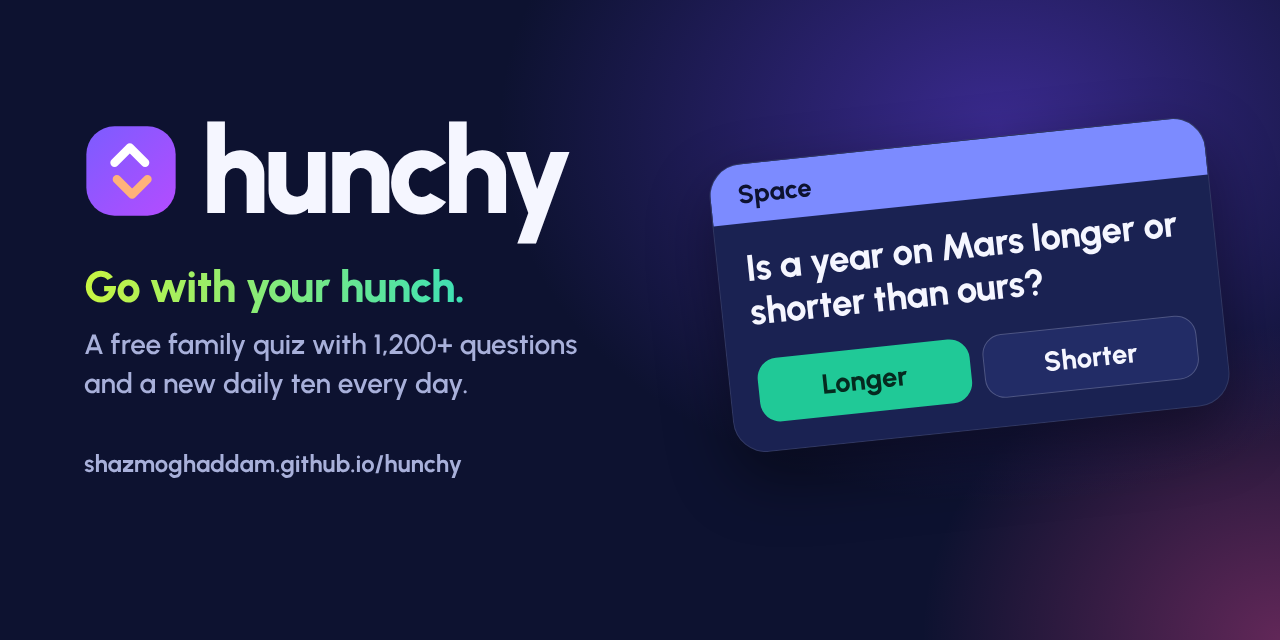
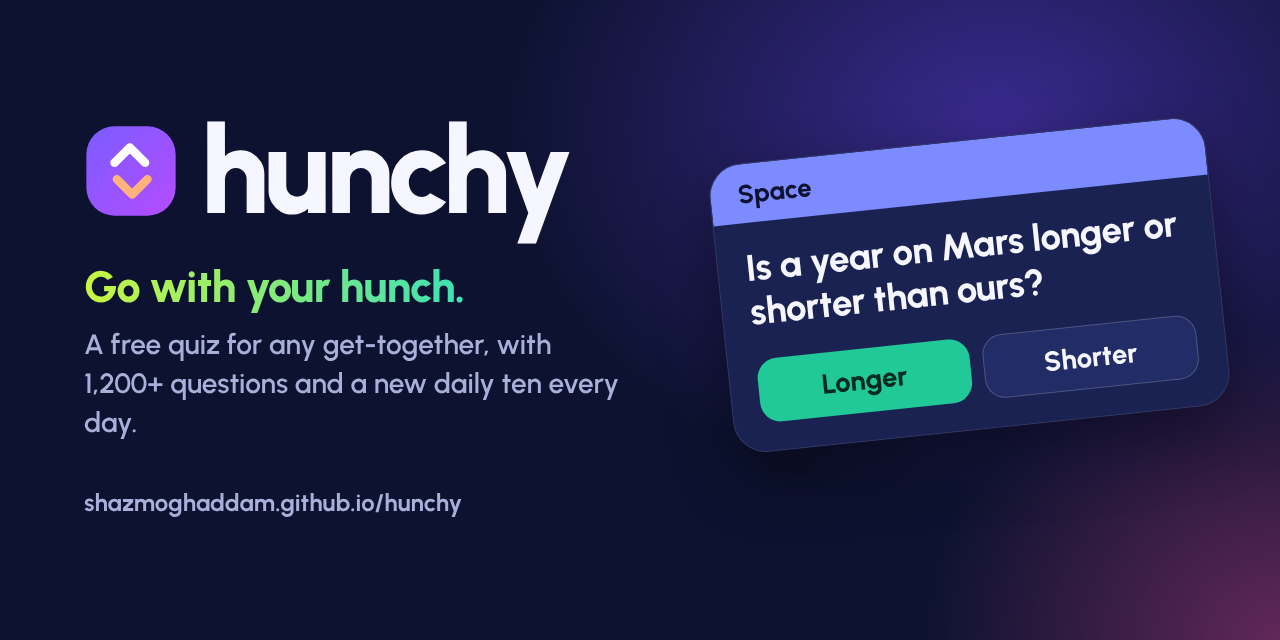
Describe Hunchy as a quiz for any get-together
Removes family wording from the app, share messages, page tags, manifest, docs, code, banner and social preview, rewords two jokes, and adds a test that keeps it out. Bumps the offline version to v1.1.2.

Changed region(s): [[0.0625, 0.5, 0.5, 0.6875], [0.0625, 0.7188, 0.375, 0.8125]]

diff --git a/assets/app.js b/assets/app.js
@@ -37,7 +37,7 @@
   const icon = (name, cls = "") => `<svg class="icon ${cls}" aria-hidden="true"><use href="#i-${name}"/></svg>`;
   const say = (text) => { announce.textContent = ""; setTimeout(() => { announce.textContent = text; }, 30); };
 
-  // Dates use the player's own calendar, so a whole family on one sofa shares the same daily ten.
+  // Dates use the player's own calendar, so everyone in the same room shares the same daily ten.
   const todayKey = () => { const d = new Date(); return `${d.getFullYear()}-${String(d.getMonth() + 1).padStart(2, "0")}-${String(d.getDate()).padStart(2, "0")}`; };
   const dayBefore = (key) => { const d = new Date(key + "T12:00:00"); d.setDate(d.getDate() - 1); return d.toISOString().slice(0, 10); };
   const niceDate = (key) => new Date(key + "T12:00:00").toLocaleDateString("en-GB", { weekday: "long", day: "numeric", month: "long" });
@@ -236,7 +236,7 @@
         <div class="modes">
           <button class="piece mode quick" data-go="quick-setup"><span class="badge">${icon("bolt")}</span><span class="text">Quick round<small>Ten questions from the subjects you choose</small></span></button>
           <button class="piece mode lives" data-go="lives"><span class="badge">${icon("heart")}</span><span class="text">Three lives<small>Keep going until you've got three wrong. Best: ${store.get("best-lives", 0)}</small></span></button>
-          <button class="piece mode hunchoff" data-go="hunchoff-setup"><span class="badge">${icon("family")}</span><span class="text">Hunch-off<small>Take turns on one phone</small></span></button>
+          <button class="piece mode hunchoff" data-go="hunchoff-setup"><span class="badge">${icon("players")}</span><span class="text">Hunch-off<small>Take turns on one phone</small></span></button>
           <button class="piece mode stats" data-go="stats"><span class="badge">${icon("chart")}</span><span class="text">Your stats<small>Best subjects, streaks and scores</small></span></button>
         </div>
 
@@ -253,7 +253,7 @@
             </div>
           </div>
           <div class="setting">
-            <span class="what" id="gu-label"><strong>Grown-up jokes</strong><small>${grownUps ? "On. Cheekier jokes are in the mix." : "Off. Every joke is fine for the whole family."}</small></span>
+            <span class="what" id="gu-label"><strong>Grown-up jokes</strong><small>${grownUps ? "On. Cheekier jokes are in the mix." : "Off. Every joke is fine for everyone."}</small></span>
             <button class="switch" role="switch" aria-checked="${grownUps}" aria-labelledby="gu-label" data-grownups><span class="switch-track" aria-hidden="true"><span class="switch-thumb"></span></span></button>
           </div>
           <div class="setting">
@@ -668,7 +668,7 @@
   // Share text only ever says how someone did, never which answers were right, so it can't spoil today's ten.
   let shareResult = null;
 
-  async function share(text, copied = "Copied. Paste it into your family chat.") {
+  async function share(text, copied = "Copied. Paste it into your group chat.") {
     try {
       if (navigator.share) { await navigator.share({ text }); return; }
       await navigator.clipboard.writeText(text);
@@ -686,7 +686,7 @@
     const row = done.results.map((r) => (r ? "+" : "-")).join("");
     const s = currentStreak();
     share(`Hunchy, ${niceDate(key)}: ${done.score}/${ROUND} [${row}]${s > 1 ? `, ${s} day streak` : ""}. Play today's ten: ${SITE}`,
-      "Score copied. Paste it into your family chat.");
+      "Score copied. Paste it into your group chat.");
   }
 
   // Jokes ------------------------------------------------------------------------------------
@@ -767,7 +767,7 @@
     const punch = e.target.closest("[data-punch]");
     if (punch) return revealPunchline(punch);
     if (e.target.closest("[data-joke-share]") && shownJoke) {
-      return share(`${shownJoke.setup}\n${shownJoke.punchline}\n\nFrom Hunchy, a free family quiz: ${SITE}`, "Joke copied. Go and make someone groan.");
+      return share(`${shownJoke.setup}\n${shownJoke.punchline}\n\nFrom Hunchy, a free quiz for any get-together: ${SITE}`, "Joke copied. Go and make someone groan.");
     }
     if (e.target.closest("[data-joke-next]")) return nextJoke();
     if (e.target.closest("[data-sound]")) {

diff --git a/index.html b/index.html
@@ -4,11 +4,11 @@
   <meta charset="utf-8">
   <meta name="viewport" content="width=device-width, initial-scale=1, viewport-fit=cover">
   <title>Hunchy: go with your hunch</title>
-  <meta name="description" content="A free family quiz. Higher or lower, yes or no, or pick the answer, across 18 subjects. Every answer checked and sourced.">
+  <meta name="description" content="A free quiz for any get-together. Higher or lower, yes or no, or pick the answer, across 18 subjects. Every answer checked and sourced.">
   <meta name="theme-color" content="#0D1230">
   <script>/* Set the saved look before the page paints, so it never flashes the wrong theme. */ try { document.documentElement.dataset.theme = JSON.parse(localStorage.getItem("hunchy:theme")) === "light" ? "light" : "dark"; } catch (e) { document.documentElement.dataset.theme = "dark"; }</script>
   <meta property="og:title" content="Hunchy: go with your hunch">
-  <meta property="og:description" content="A free family quiz with 1,200+ questions and a new daily ten every day. Go with your hunch.">
+  <meta property="og:description" content="A free quiz for any get-together, with 1,200+ questions and a new daily ten every day. Go with your hunch.">
   <meta property="og:image" content="https://shazmoghaddam.github.io/hunchy/assets/social-preview.png">
   <meta property="og:url" content="https://shazmoghaddam.github.io/hunchy/">
   <meta name="twitter:card" content="summary_large_image">
@@ -52,7 +52,7 @@
       <symbol id="i-heart" viewBox="0 0 24 24"><path d="M12 20s-7.5-4.6-7.5-10.2A4.3 4.3 0 0 1 12 7.2a4.3 4.3 0 0 1 7.5 2.6C19.5 15.4 12 20 12 20z"/></symbol>
       <symbol id="i-calendar" viewBox="0 0 24 24"><rect x="3.5" y="5" width="17" height="15.5" rx="2.5"/><path d="M3.5 10h17M8 3v4M16 3v4"/></symbol>
       <symbol id="i-bolt" viewBox="0 0 24 24"><path d="M13 2.5 4.5 13.5H11l-1 8 8.5-11H12z"/></symbol>
-      <symbol id="i-family" viewBox="0 0 24 24"><circle cx="8" cy="7.5" r="3"/><circle cx="16.5" cy="9.5" r="2.3"/><path d="M2.5 20c.5-3.6 2.8-5.8 5.5-5.8s5 2.2 5.5 5.8M13.8 15.3c.8-.7 1.7-1 2.7-1 2.4 0 4.2 2 4.6 5"/></symbol>
+      <symbol id="i-players" viewBox="0 0 24 24"><circle cx="8" cy="7.5" r="3"/><circle cx="16.5" cy="9.5" r="2.3"/><path d="M2.5 20c.5-3.6 2.8-5.8 5.5-5.8s5 2.2 5.5 5.8M13.8 15.3c.8-.7 1.7-1 2.7-1 2.4 0 4.2 2 4.6 5"/></symbol>
       <symbol id="i-close" viewBox="0 0 24 24"><path d="M6 6l12 12M18 6 6 18"/></symbol>
       <symbol id="i-share" viewBox="0 0 24 24"><path d="M12 15V3.5M7.5 8 12 3.5 16.5 8M5 12v7a2 2 0 0 0 2 2h10a2 2 0 0 0 2-2v-7"/></symbol>
       <symbol id="i-flag" viewBox="0 0 24 24"><path d="M5 21V4M5 4h11l-2 4 2 4H5"/></symbol>

diff --git a/sw.js b/sw.js
@@ -3,7 +3,7 @@
    Everything else (styles, script, fonts, icons): use the copy at once and refresh it in the background.
    VERSION must match the latest version in CHANGELOG.md (a test checks). Changing it is what tells phones a new
    version exists: the new worker installs, clears the old copy, and the page reloads itself onto it. */
-const VERSION = "hunchy-v1.1.1";
+const VERSION = "hunchy-v1.1.2";
 const SHELL = [
   "./",
   "index.html",

diff --git a/jokes/build_jokes.py b/jokes/build_jokes.py
@@ -1,13 +1,13 @@
 """Writes data/jokes.json. Every joke is original to Hunchy.
 
-FAMILY jokes are for everyone. GROWN_UPS jokes are a bit cheekier, flirtier or darker, and only appear when the
+EVERYONE jokes are for everyone. GROWN_UPS jokes are a bit cheekier, flirtier or darker, and only appear when the
 Grown-up jokes switch is on. Run: python3 jokes/build_jokes.py
 """
 
 import json
 from pathlib import Path
 
-FAMILY = [
+EVERYONE = [
     ("Why did the higher-or-lower player bring a ladder?", "They had a feeling the answer was higher."),
     ("Why does the Eiffel Tower grow in summer?", "Too many croissants on holiday."),
     ("Why did the polar bear fail the penguin-spotting test?", "Wrong pole."),
@@ -38,7 +38,7 @@ FAMILY = [
     ("Why did the footballer bring string to the match?", "To tie the game."),
     ("Why did the sprinter get disqualified from quiz night?", "She kept answering before the gun."),
     ("Why are Le Mans drivers so tired?", "Twenty-four hours is a long time to go round in circles."),
-    ("Why did the Lamborghini stop at the farm?", "It wanted to visit the tractors and the bulls. Family is family."),
+    ("Why did the Lamborghini stop at the farm?", "It wanted to visit the tractors and the bulls. Old friends."),
     ("What do Mary Quant's miniskirt and the Mini car have in common?", "Not much leg room."),
     ("Why did the jeans go on holiday to Nîmes?", "To get back to their roots."),
     ("What did the wellington boot say to the puddle?", "You're no Waterloo."),
@@ -95,7 +95,7 @@ GROWN_UPS = [
     ("Why did the snowman's wife leave him?", "He was a total flake."),
     ("Why does Dracula always win the pub quiz?", "He was there for most of the answers."),
     ("I'd tell you a joke about the Mariana Trench.", "But it's far too deep for this time of night."),
-    ("Why is a Hunch-off like a family Christmas?", "Somebody always storms off before the scores are in."),
+    ("Why is a Hunch-off like Christmas dinner?", "Somebody always storms off before the scores are in."),
     ("I tried speed dating at the Tour de France.", "Everyone just rode straight past."),
     ("Are you The Kiss by Klimt?", "Because I could stare at you for hours and still not understand what's going on."),
     ("Are you Mount Damavand?", "Because you're hot, and I'm not convinced you're as dormant as you look."),
@@ -115,11 +115,11 @@ GROWN_UPS = [
 
 
 def main() -> None:
-    jokes = [{"id": f"joke-{i:03d}", "setup": s, "punchline": p, "grownUp": False} for i, (s, p) in enumerate(FAMILY, 1)]
-    jokes += [{"id": f"joke-{i:03d}", "setup": s, "punchline": p, "grownUp": True} for i, (s, p) in enumerate(GROWN_UPS, len(FAMILY) + 1)]
+    jokes = [{"id": f"joke-{i:03d}", "setup": s, "punchline": p, "grownUp": False} for i, (s, p) in enumerate(EVERYONE, 1)]
+    jokes += [{"id": f"joke-{i:03d}", "setup": s, "punchline": p, "grownUp": True} for i, (s, p) in enumerate(GROWN_UPS, len(EVERYONE) + 1)]
     out = Path(__file__).resolve().parent.parent / "data" / "jokes.json"
     out.write_text(json.dumps({"jokes": jokes}, ensure_ascii=False, indent=1) + "\n", encoding="utf-8")
-    print(f"Saved {len(jokes)} jokes ({len(FAMILY)} for everyone, {len(GROWN_UPS)} grown-up) to {out.name}")
+    print(f"Saved {len(jokes)} jokes ({len(EVERYONE)} for everyone, {len(GROWN_UPS)} grown-up) to {out.name}")
 
 
 if __name__ == "__main__":

diff --git a/tests/test_questions.py b/tests/test_questions.py
@@ -152,7 +152,7 @@ JOKES = json.loads((ROOT / "data" / "jokes.json").read_text(encoding="utf-8"))["
 
 
 def test_the_jokes_file_matches_the_source():
-    expected = [*build_jokes.FAMILY, *build_jokes.GROWN_UPS]
+    expected = [*build_jokes.EVERYONE, *build_jokes.GROWN_UPS]
     assert [(j["setup"], j["punchline"]) for j in JOKES] == expected
 
 
@@ -169,13 +169,22 @@ def test_jokes_are_clean_text():
             assert text.strip() and "—" not in text and not emoji.search(text), j["id"]
 
 
-# No ages anywhere: Hunchy is a family quiz, full stop ------------------------------------------------------
+# No ages and no 'family' wording anywhere: Hunchy is a quiz for any get-together ------------------------------------------------------
 
 @pytest.mark.parametrize("path", ["README.md", "CHANGELOG.md", "CONTRIBUTING.md", "index.html", "manifest.webmanifest",
                                   "assets/app.js", "questions/curated/__init__.py"])
 def test_no_age_ranges(path):
     text = (ROOT / path).read_text(encoding="utf-8")
     assert not re.search(r"\bages? \d|\d+ to 80|year-old|younger players", text, re.I), path
+
+
+@pytest.mark.parametrize("path", ["README.md", "CHANGELOG.md", "CONTRIBUTING.md", "SECURITY.md", "questions/CHECKS.md",
+                                  "index.html", "manifest.webmanifest", "assets/app.js", "assets/styles.css", "sw.js",
+                                  "data/jokes.json", "jokes/build_jokes.py", "questions/curated/__init__.py"])
+def test_hunchy_is_for_any_get_together(path):
+    """Hunchy is described as a quiz for any get-together, never as a family game. (CSS's font-family is fine.)"""
+    text = (ROOT / path).read_text(encoding="utf-8")
+    assert not re.search(r"(?<![-\w])famil", text, re.I), path
 
 
 # The page itself -------------------------------------------------------------------------------------

diff --git a/questions/generated.py b/questions/generated.py
@@ -46,7 +46,7 @@ SAME_NAME = {"Luxembourg", "Monaco", "San Marino", "Kuwait", "Panama", "Guatemal
 # Countries whose only 'coast' is on the Caspian, which some count as a sea: too disputed for a yes or no.
 CASPIAN = {"Azerbaijan", "Kazakhstan", "Turkmenistan"}
 
-# How well known a country is, for setting difficulty: 1 = most children know it.
+# How well known a country is, for setting difficulty: 1 = almost everyone has heard of it.
 KNOWN = {"Austria", "Belgium", "Chile", "Colombia", "Croatia", "Cuba", "Denmark", "Finland", "Iceland", "Jamaica",
          "Kenya", "Morocco", "Nepal", "Norway", "Peru", "Poland", "South Korea", "Sweden", "Switzerland", "Thailand",
          "Turkey", "Ukraine", "Vietnam", "Nigeria", "Philippines", "Indonesia", "Pakistan", "Iran", "Iraq", "Malta",

diff --git a/README.md b/README.md
@@ -1,13 +1,13 @@
-![Hunchy: go with your hunch. A free family quiz](assets/banner.png)
+![Hunchy: go with your hunch. A free quiz for any get-together](assets/banner.png)
 
 # Hunchy
 
-**A free family quiz. Go with your hunch.**
+**A free quiz for any get-together. Go with your hunch.**
 
 **[Play Hunchy](https://shazmoghaddam.github.io/hunchy/)**
 
-Hunchy is a quick guessing game for the whole family. Everyone at the table can play the same round and have a fair
-chance: some questions are about Minecraft, Bluey and the Lionesses, some are about the Beatles and the Model T, and
+Hunchy is a quick guessing game for any get-together: friends round, a party, the pub or a night in. Everyone can play
+the same round and have a fair chance: some questions are about Minecraft, Bluey and the Lionesses, some are about the Beatles and the Model T, and
 plenty are things anyone might know, like which country is bigger or where IKEA comes from.
 
 It runs in any browser on a phone, tablet, laptop or desktop. No app to install, no account, no adverts.
@@ -26,7 +26,7 @@ After each answer you get a short "did you know" fact and a link to where the an
 
 | Way to play | What it is |
 |---|---|
-| **Today's ten** | Ten questions from ten subjects, the same for everyone that day. Play daily to build a streak, then share your score with the family |
+| **Today's ten** | Ten questions from ten subjects, the same for everyone that day. Play daily to build a streak, then share your score with your group chat |
 | **Quick round** | Ten questions from the subjects you pick |
 | **Three lives** | Keep going until you get three wrong |
 | **Hunch-off** | 2 to 6 players take turns on one phone. Highest score wins, with a joke break after every round of turns |
@@ -45,7 +45,7 @@ Messages or anywhere else; on a computer it's copied, ready to paste. Shared sco
 Every game ends with a joke, and Hunch-off has a joke break between rounds. You see the setup first, then tap for
 the punchline, and any joke can be shared. They come out at random and don't repeat until you've seen them all.
 
-Most of them are family jokes: puns, groan-worthy wordplay and gentle digs. Switch on **Grown-up jokes** in
+Most of them are for everyone: puns, groan-worthy wordplay and gentle digs. Switch on **Grown-up jokes** in
 Settings to add 25 cheekier ones, a little flirty or a little dark. They're off unless someone turns them on.
 
 ## 1,200+ questions in 18 subjects

diff --git a/CHANGELOG.md b/CHANGELOG.md
@@ -1,5 +1,13 @@
 # Changelog
 
+## v1.1.2 (2026-11-12)
+
+- **A quiz for any get-together.** Hunchy's wording now fits every group: friends round, a party, the pub or a
+  night in. The new line, "A free quiz for any get-together", is used in the app, the page description and link
+  previews, the share messages, the README, the banner and the social preview.
+- Two jokes reworded to match, with no change to how they play.
+- A new test keeps the old wording from creeping back into the app and docs. The questions themselves are unchanged.
+
 ## v1.1.1 (2026-11-12)
 
 - **Updates arrive straight away.** When a new version of Hunchy is published, the page now reloads itself onto it
@@ -33,7 +41,7 @@ A new look, an 18th subject, and a game that works anywhere.
 
 ## v1.0.0 (2026-11-12)
 
-First release of Hunchy, a free family quiz. Go with your hunch.
+First release of Hunchy, a free quiz for any get-together. Go with your hunch.
 
 - **1,200 questions in 17 subjects**: Geography, Cities & Landmarks, History, Leaders & Famous People, Science,
   Space, Nature & Animals, Maths, Sport, Film & TV, Music, Art & Culture, Food & Drink, Inventions & Brands,

diff --git a/questions/CHECKS.md b/questions/CHECKS.md
@@ -65,7 +65,7 @@ or easy to get wrong were checked against a second source:
 - **Wrong answers that named people who don't exist**, such as made-up pairs of brothers, were replaced with real
   ones.
 - **Hugo Boss** was asked about as a maker of 'work clothes and uniforms'. Accurate, but it invites a dark
-  history that doesn't belong in a family quiz, so it now asks where the company was founded.
+  history that doesn't belong in a light-hearted quiz, so it now asks where the company was founded.
 - **Old Faithful** erupts roughly every 90 minutes, not every hour. Corrected.
 - **Religion** was taken out: a Diwali question became La Tomatina, and a camera-brand fact lost its religious detail.
 - **"Which language has the most native speakers?"** was already in the bank, so the Words & Language version was

diff --git a/CONTRIBUTING.md b/CONTRIBUTING.md
@@ -53,7 +53,7 @@ change together with the updated `data/questions.json`.
 
 ## Writing a joke
 
-Jokes live in [`jokes/build_jokes.py`](jokes/build_jokes.py) as pairs of setup and punchline. `FAMILY` jokes are
+Jokes live in [`jokes/build_jokes.py`](jokes/build_jokes.py) as pairs of setup and punchline. `EVERYONE` jokes are
 for everyone; `GROWN_UPS` jokes can be cheekier, flirtier or a bit darker, but never crude, cruel or about real
 people. Every joke should be original, not copied from a joke book or website. Rebuild with
 `python3 jokes/build_jokes.py`, then run the tests.
